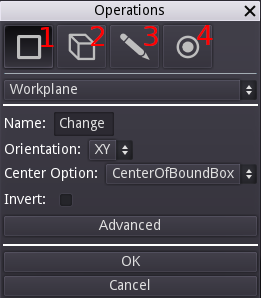
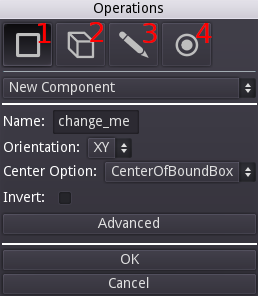
Updated all except the tutorial documentation

diff --git a/docs/usage.md b/docs/usage.md
@@ -2,22 +2,22 @@
 
 ## User Interface
 
-Semblage's user interface has several parts, and learning where they are and what they do will be important when starting with Semblage. The user interface is kept intentionally simple, and an effort will be made to keep it simple over time as more features are added. Hovering the mouse cursor over a control will show a tooltip with additional information about what the control does.
+Semblage's user interface has several parts, and learning where they are and what they do will be important when starting with Semblage. The user interface is kept intentionally simple, and an effort will be made to keep it simple over time as more features are added. In most cases, hovering the mouse cursor over a control will show a tooltip with additional information about what the control does.
 
 Below is a diagram showing the main sections of the user interface.
 
 [![Semblage UI Overview](_static/Semblage_UI_Overview_Med.png)](_static/Semblage_UI_Overview_Full.png)
 
-1. _Open Button_ - Allows a user to open a Semblage component file, which is just a carefully structured CadQuery script. Semblage files are structured in a way that preserves the history, which is the order that operations were added in. Opening a non-Semblage CadQuery file will still work, but no history will be loaded.
-2. _Save Button_ - Any button with a triangle in the bottom-right corner will open a submenu. The Save button gives two options: _Save_ and _Save As_. If a component has not been saved yet, clicking the _Save_ item will trigger a _Save As_, which allows the file name to be set for the component. After the file name has been set, clicking _Save_ will simply save the component to the existing file. The _Ctrl+S_ hotkey combination will trigger a save as well.
+1. _Open Button_ - Allows a user to open a Semblage component file, which is just a carefully structured CadQuery script. Semblage files are structured in a way that preserves the history, which is the order that operations were added in. Opening a non-Semblage CadQuery file should still work, but no history will be loaded. However, it should be understood that Semblage is not a CadQuery IDE. There are other editors like [CQ-editor](https://github.com/CadQuery/CQ-editor) that can fill that role better than Semblage.
+2. _Save Button_ - Any button with a triangle in the bottom-right corner will open a submenu. The Save button gives two options: _Save_ and _Save As_. If a component has not been saved yet, clicking the _Save_ item will trigger a _Save As_, which allows the path and file name to be set for the component. After the file name has been set, clicking _Save_ will simply save the component to the existing file. The _Ctrl+S_ hotkey combination will trigger a save as well.
 3. _Export Button_ - Also referred to as the "Make Button", the icon for this button is a 3D printer head extruding plastic. Clicking this button will display a submenu with a listing of each format that the component can be exported to. Clicking on one of the items will open the export dialog for that format.
 4. _Close Button_ - Clicking this button closes the current component and clears the UI so that work on a new component can be started.
 5. _Home Button_ - Clicking this button with a component loaded into the 3D view will return the camera view to a standard "home" position. This gives a safe spot to come back to when rotating, panning, and zooming an object.
 6. _Information Button_ - This button opens an About dialog that contains acknowledgements, documentation links, and version information.
-7. Data - Sidebar that contains the list of _Components_, the operation _History_ of the currently selected component, and any _Parameters_ that are associated with the current component.
-8. _Components_ - List of current components. As of the alpha release only one component can be worked with at a time, but that will change in future releases.
+7. Data - Sidebar that contains the list of _Components_, the operation _History_ of the currently selected component, and any _Parameters_ that are associated with the current component. Parameters are global and are not scoped to any single component within the enclosing component script.
+8. _Components_ - List of current components. Multiple components can be added and used in combination to perform operations such as sweep.
 9. _History_ - Holds the series of operations, in order, that generated the selected component. Just below the _History_ label there are buttons to manipulate the history and change the order of operations. The buttons allow the user to delete the selected operation (minus icon), move the operation toward the top of the list (up arrow icon), and move the operation down the list (down arrow icon). Double-clicking an entry in this list will allow that entry to be edited in the [Operations Dialog](operations-dialog), which is discussed later.
-10. _Parameters_ - Parameters are what make a model "parametric", and this control holds any parameters that are defined for the current component. Just below the _Parameters_ label there are buttons to add (plus icon) and remove (minus icon) parameters for the component. Double clicking an entry in this list will allow that entry to be edited, although the name of a parameter cannot be changed once it has been created. To change the name, the parameter must be deleted and recreated.
+10. _Parameters_ - Parameters are what make a model "parametric", and this control holds any parameters that are defined for the current component. These parameters are global to the component script, and are not scoped to an individual component within the script/file. Just below the _Parameters_ label there are buttons to add (plus icon) and remove (minus icon) parameters for the component. Double clicking an entry in this list will allow that entry to be edited, although the name of a parameter cannot be changed once it has been created. To change the name, the parameter must be deleted and recreated.
 11. _Status Indicator_ - Used to keep the user updated on what the UI is doing. Examples are _Ready_ for when the interface is fully loaded and ready to use, _Rendering..._ for when a component is being recomputed and prepared for display, and _Component saved_ to indicate that a save operation completed.
 12. _Document Tab_ - Displays the path and name of the currently open component. Displays _Start_ when the UI first loads.
 13. _Rotation Indicator_ - Shows the X (red), Y (green) and Z (blue) axes and their orientation. This indicator mirrors the rotation applied to the component in the 3D view. In the future the indicator ball for each axis will be labelled with its axis letter, and clicking on a ball will snap the 3D view to that orientation. This is very similar to the way this indicator works in Blender.
@@ -25,14 +25,14 @@ Below is a diagram showing the main sections of the user interface.
 
 ## Operations Dialog
 
-Right clicking anywhere on the 3D view will display the Operations dialog. This is where the majority of the work of creating a component is done. Displaying the dialog on a right click gives fast access to component creation operations, and prepares the user for when features such as vertices, edges, faces can be selected and used in an operation. There are four mode buttons at the top of the dialog, which select groups of operations that this dialog can operate with. The diagram below highlights each button and which group of operations it selects.
+Right clicking anywhere on the 3D view will display the _Operations_ dialog. This is where the majority of the work of creating a component is done. Displaying the dialog on a right click gives fast access to component creation operations, and prepares the user for when features such as vertices, edges, faces can be selected and used in an operation. There are four mode buttons at the top of the dialog, which select groups of operations that this dialog can operate with. The diagram below highlights each button and which group of operations it selects.
 
 ![Operations Dialog Group Buttons](_static/Operations_Dialog_Group_Buttons.png)
 
-1. _Workplane_ - Used to create a new base workplane for components, or modify the existing workplane with operations such as `rotate` and `translate`. 
-2. _3D_ - 3D operations, typically used with a previous 2D operation to create or modify a component.
+1. _Component/Workplane_ - Used to create a new components (which is a CadQuery Workplane object underneath), add a construction workplane, or modify the existing component's workplane with operations such as `rotate` and `translate`.
+2. _3D_ - Collection of 3D operations, typically used with a previous 2D operation to create or modify a component.
 3. _2D_ - Collection of 2D operations that can be used alone, or in conjunction with a 3D operation later. Clicking this button will also add sketch preview controls, causing the dialog to become wider. The [sketch preview](#sketch-preview) is covered below.
-4. _Selectors_ - Selectors are very important in both CadQuery and Semblage, and are used to select faces, edges and vertices in a way that captures design intent and makes designs less brittle to changes.
+4. _Selectors_ - Selectors are very important in both CadQuery and Semblage, and are used to select faces, edges and vertices in a way that captures design intent and makes designs more robust in most cases.
 
 ### Common Controls
 
@@ -40,33 +40,33 @@ Besides the mode buttons, there are a few controls that are always available on 
 
 ![Operations Dialog Common Controls](_static/Operations_Dialog_Common_Controls.png)
 
-1. _Operations Drop Down_ - Allows the user to select which operation to apply to the component next. By default, the operation that is shown when creating a new component is _Workplane_, which must be created in order to apply any other operations. Changing this drop down will change which controls are displayed in the middle section of the dialog, above the _OK_ and _Cancel_ buttons.
+1. _Operations Drop Down_ - Allows the user to select which operation to apply to the component next. By default, the operation that is shown when creating a new component is _New Component_, which must be created in order to apply any other operations. Changing this drop down will change which controls are displayed in the middle section of the dialog, above the _OK_ and _Cancel_ buttons.
 2. _OK Button_ - Once all control values for the selected operation have been set, clicking this button will close the dialog and add the operation to the _History_ list, and then trigger a render of the resulting component.
-3. _Cancel Button_ - Can be used when it is decided that an operation should not be applied to the component.
+3. _Cancel Button_ - Can be used if it is decided that an operation should not be applied to the component.
 
 ### Sketch Controls
 
-When in 2D mode, sketch controls will be added to the dialog, making it wider. These extra controls allow the user to group related 2D operations together into a single _History_ entry. When a 2D operation is added, the result will be displayed in a preview control on the right side of the dialog. At some point this will be reworked into a mouse-driven sketch tool, with 2D constraints. The sketch controls are outlined below.
+When in 2D mode, sketch controls will be added to the dialog, making it wider. These extra controls allow the user to group related 2D operations together into a single _History_ entry. When a 2D operation is added, the result will be displayed in a preview control on the right side of the dialog. At some point this will be reworked into a mouse-driven sketch tool with 2D constraints. The sketch controls are outlined below.
 
 ![Default Sketch Controls](_static/Sketch_Controls_Default.png)
 
 1. _Add Button_ - Clicking this button adds the currently selected operation, configured with the current settings, to the operations list that is discussed next.
 2. _Operations List_ - Similar to the _History_ list in the main user interface, this holds each of the 2D operations that have been added by the user. Double-clicking on an entry will load its information into the controls above so that it can be edited (editing is discussed in an upcoming section).
-3. _Sketch Preview_ - Shows an SVG preview of the 2D sketch resulting from the operations in the list. This is to aid the user while building more complex sketches, and will be reworked to be more mouse-driven in the future.
+3. _Sketch Preview_ - Shows a preview of the 2D sketch resulting from the operations in the list. This is to aid the user while building more complex sketches, and will be reworked to be more mouse-driven in the future.
 
 Once a 2D operation has been added to the operations list and is selected, a set of new buttons becomes available which allow the user to modify the sketch operations and their order. Each of those additional buttons are outlined below.
 
 ![Expanded Sketch Controls](_static/Sketch_Controls_Expanded.png)
 
-1. _Re-Render_ (circle) - After changing the order of 2D operations, clicking this will update the 2D sketch preview to reflect the current 2D operations and their order.
+1. _Re-Render_ (arrow circle) - After changing the order of 2D operations, clicking this will update the 2D sketch preview to reflect the current 2D operations and their order.
 2. _Remove_ (minus) - Clicking this will remove the currently selected 2D sketch operation.
 3. _Move Up_ (up arrow) - Moves the selected 2D sketch operation up towards the top of the list.
-4. _Move Down (down arrow) - Moves the selected 2D sketch operation down towards the bottom of the list.
-5. _Selected_ - Example of an 2D sketch operation highlighted after being selected.
+4. _Move Down_ (down arrow) - Moves the selected 2D sketch operation down towards the bottom of the list.
+5. _Selected_ - Example of a 2D sketch operation highlighted after being selected.
 
 ## Mouse Controls
 
-Mouse controls are not configurable at this time.
+Mouse controls are not configurable at this time, but likely will be in the future.
 
 * _Left Mouse Button_ - Rotate the camera around the component in the 3D view.
 * _Mouse Wheel_ - Zoom in and out.
@@ -77,10 +77,10 @@ Mouse controls are not configurable at this time.
 
 Semblage is designed to use the following general process for creating components.
 
-1. Create a workplane
-2. Create a 2D sketch on the workplane (i.e. lines, arcs)
+1. Create a component
+2. Create a 2D sketch on the component's base workplane (i.e. lines, arcs)
 3. Perform a 3D operation on the 2D sketch (i.e. extrude)
 
-There are variations on this theme, such as when a user only wants to create a 2D sketch to export it to DXF or SVG, or when the user wants to create sketches in two orthogonal workplanes to do a sweep operation (not available yet). In general however, this will be the central workflow for most uses.
+There are variations on this theme, such as when a user only wants to create a 2D sketch to export it to DXF or SVG, or when the user wants to create sketches in two orthogonal component workplanes to do a sweep operation. In general however, this will be the central workflow for most uses.
 
 Now that you are familiar with the user interface and basic usage of Sembalge, the [Tutorials](tutorials/index.md) are useful for learning the workflow and modelling techniques in more depth.

diff --git a/docs/community.md b/docs/community.md
@@ -1,6 +1,6 @@
 # Community
 
-This page is dedicated to resources for the community that will hopefully form around Semblage if it proves useful.
+This page is dedicated to resources for the community that will form around Semblage if it proves useful.
 
 ## Communication Channels
 
@@ -8,11 +8,7 @@ This page is dedicated to resources for the community that will hopefully form a
 
 ## Contributing
 
-There is a contribution guide in the Semblage GitHub repository. [Link](https://github.com/7BIndustries/Semblage/blob/master/CONTRIBUTING.md).
-
-## Coding
-
-There is a [separate guide](developer_setup.md) on setting up a development environment for Semblage. If you are interested in contributing code, please introduce yourself on the issue tracker or in one of the communication channels. Semblage has essentially two layers, the Godot layer and the Python layer. Depending on where your expertise and interest lies, here are two resources to get started learning how each layer works.
+There is a [contribution guide](https://github.com/7BIndustries/Semblage/blob/master/CONTRIBUTING.md) in the Semblage GitHub repository. There is also a [separate guide](developer_setup.md) on setting up a development environment for Semblage. If you are interested in contributing code, please introduce yourself on the issue tracker or in one of the communication channels. Semblage has essentially two layers, the Godot layer and the Python layer. Depending on where your expertise and interest lies, here are two resources to get started learning how each layer works.
 
 * [Godot Game Engine Documentation](https://docs.godotengine.org/en/stable/)
 * [Godot Python Plugin](https://github.com/touilleMan/godot-python)
@@ -27,7 +23,7 @@ If you are interested in doing translations, please open a GitHub issue or start
 
 ## Accessibility
 
-One goal of Semblage is to be usable to the largest range of people possible. The accessibility support in Semblage is non-existent at this point, but there is a desire to improve this situation in the future. If you are someone who has a background and interest in accessibility, please start a conversation on the community channels or in a GitHub issues.
+One goal of Semblage is to be usable to the largest range of people possible. The accessibility support in Semblage is non-existent at this point, but there is a desire to improve this situation in the future. If you are someone who has a background and interest in accessibility, please start a conversation on the community channels or in a GitHub issue.
 
 For reference, there is an accessibility plugin for the Godot game engine [here](https://github.com/lightsoutgames/godot-accessibility). That may be a starting point for Semblage's accessibility support in the future.
 

diff --git a/docs/roadmap.md b/docs/roadmap.md
@@ -1,5 +1,5 @@
 # Roadmap
 
-Below is the proposed roadmap for this project. It represents the current plan, but can be altered based on lessons learned and feedback from the community. The diagram below shows a general order for development, with some projects being done in parallel.
+Below is the proposed roadmap for this project. It represents the current plan, but can be altered based on lessons learned and feedback from the community. The diagram below shows a general order for development, with some projects being done in parallel. The _P_ character (i.e. _P1_) stands for _Phase_, and checkmark for a phase indicates that it has been completed satisfactorily.
 
 [![Roadmap Medium](_static/roadmap-med.png)](_static/roadmap-full.png)
